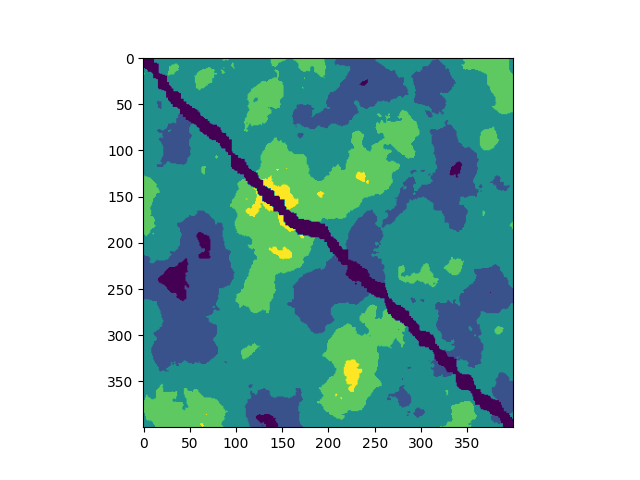
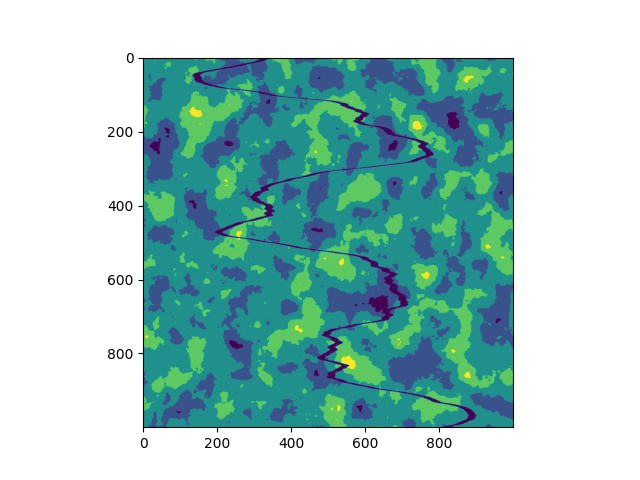
Added procedural rivers

Changed region(s): [[0.1562, 0.125, 0.8125, 0.9375], [0.1562, 0.5, 0.2188, 0.5312]]

diff --git a/evo_island_main.py b/evo_island_main.py
@@ -4,7 +4,7 @@ import random
 import matplotlib.pyplot as plt
 import imageio
 
-level_difficulty = {1: 10, 2: 40, 3: 60, 4: 80, 5: 90}
+level_difficulty = {1: 10, 2: 50, 3: 60, 4: 80, 5: 90}
 
 def visualize_matrix(matrix):
     fig, ax = plt.subplots()
@@ -28,7 +28,7 @@ def generate_agent_matrix(n):#Initialize empty agent matrix
 def generate_island(n, use_perlin_noise=True, randomize_params=True, use_migration_route=True):
     world = generate_terrain(n, use_perlin_noise, randomize_params)
     if use_migration_route:
-       world = generate_migration_route(n, world)
+       world = generate_river(n, world)
 
     return world
 
@@ -66,53 +66,43 @@ def generate_terrain(n, use_perlin_noise=True, randomize_params=True):
     else:
         #Map is randomly generated with no structure. 
         return [[random.randint(1, 3) for i in range(n)] for j in range(n)]
-    
-def generate_migration_route(n, world):
-   # Generate a random but connected path of the easiest biome starting from the top left cell
-        # This is a migrational route
-        curr_x, curr_y = 0, 0
-        route_width = int(n/50) # Change this parameter to change the width of the migratory route
-        branch_prob = 0.2 # Change this parameter to adjust the probability of branching
-        max_branches = 4 # Change this parameter to adjust the maximum number of branches per node
-        nodes = [(curr_x, curr_y)]  # store the current path nodes
-        while True:
-            # Move either right or down randomly
-            if random.choice([True, False]):
-                curr_x += 1
-            else:
-                curr_y += 1
 
-            # Check if the new position is in range of the array
-            if 0 <= curr_x < n and 0 <= curr_y < n:
-                # Set the cell to biome 1 and continue the path
-                for i in range(-route_width, route_width + 1):
-                    if 0 <= curr_x + i < n:
-                        world[curr_x + i][curr_y] = 1
-                
-                # Branching behavior
-                if random.random() < branch_prob and len(nodes) > 0:
-                    # Choose a random number of branches
-                    num_branches = random.randint(1, max_branches)
-                    for j in range(num_branches):
-                        # Choose a random node to branch from
-                        node = random.choice(nodes)
-                        # Choose a random direction to branch in
-                        direction = random.choice([(1,0),(-1,0),(0,1),(0,-1)])
-                        next_x, next_y = node[0] + direction[0], node[1] + direction[1]
-                        if 0 <= next_x < n and 0 <= next_y < n:
-                            # Set the cell to biome 1 and create a new branch node
-                            world[next_x][next_y] = 1
-                            nodes.append((next_x, next_y))
-                            # Randomly vary the width of the new branch
-                            branch_width = random.randint(int(route_width/2), route_width)
-                            for i in range(-branch_width, branch_width + 1):
-                                if 0 <= next_x + i < n:
-                                    world[next_x + i][next_y] = 1
-            else:
-                # End the path when the end of the array is reached
-                break
-        return world
-    
+from noise import pnoise2
+
+def generate_river(n, world):
+    # Generate 2D Perlin noise
+    scale = 200.0
+    octaves = 6
+    persistence = 0.4
+    lacunarity = 2.0
+    grid = [[0 for j in range(n)] for i in range(n)]
+    for i in range(n):
+        for j in range(n):
+            grid[i][j] = pnoise2(i / scale, j / scale, octaves=octaves,
+                                 persistence=persistence, lacunarity=lacunarity,
+                                 repeatx=n, repeaty=n, base=0)
+
+    # Find the maximum and minimum values in the grid
+    max_val = max(map(max, grid))
+    min_val = min(map(min, grid))
+
+    # Rescale the values in the grid to be between 0 and 1
+    scaled_grid = [[(val - min_val) / (max_val - min_val) for val in row] for row in grid]
+
+    # Define the river path as a series of points with y-values along the center of the grid
+    river_width = n // 50
+    river_path = [[i, scaled_grid[i][n//2]] for i in range(n)]
+
+    # Write the river pattern directly to the world array
+    for i in range(n):
+        for j in range(n):
+            if abs(int(river_path[i][1]*n) - j) <= river_width // 2:
+                world[i][j] = 1
+
+    # Return the world array
+    return world
+
+
 def isCoordinateInRange(n, x, y):
     if x < 0 or x >= n:
         return False
@@ -218,30 +208,32 @@ def run_game():
 
     
     # configurable parameters, change as needed
-    map_size = 400
-    simulation_steps = 10
+    map_size = 1000
+    simulation_steps = 3000
     use_perlin_noise = True  # set to False to use random integer generation instead
     use_random_params = False # set to False to use preset perlin parameters
-    use_migration_route = True # set to False to remove migration routes
+    use_rivers = True # set to False to remove rivers
 
     #game initialization
     agent_starting_pos = 0,0
-    game_world = generate_island (map_size, use_perlin_noise, use_random_params, use_migration_route)
+    game_world = generate_island (map_size, use_perlin_noise, use_random_params, use_rivers)
     agent_matrix = generate_agent_matrix(map_size)
 
     #place initial agent
-    agent_matrix[agent_starting_pos[0]][agent_starting_pos[1]] = train_new_individual()
+    #agent_matrix[agent_starting_pos[0]][agent_starting_pos[1]] = train_new_individual()
+    agent_matrix[random.randint(0, len(agent_matrix)-1)][random.randint(0, len(agent_matrix[0])-1)] = train_new_individual()
+
 
     #print initial state
     print ("Game Parameters: ")
     print ("Map size = " + str(map_size))
     print ("Perlin Noise:" + str(use_perlin_noise))
     print ("Random_Params:" + str(use_random_params))
-    print ("Migration Route:" + str(use_migration_route))
+    print ("Rivers:" + str(use_rivers))
     print ("Simulation Steps:" + str(simulation_steps))
     print ("\n")
     #print ("Displaying Game_World in console.")
-    #visualize_matrix(game_world)
+    visualize_matrix(game_world)
     save_matrix_image(game_world, 'Game_World')
     
     frames = [] # array to save images of the heatmap
